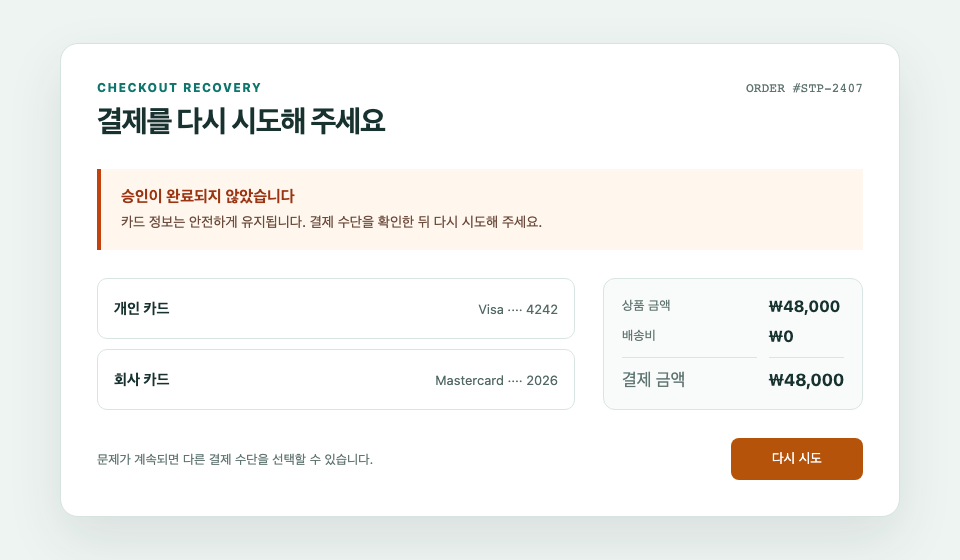
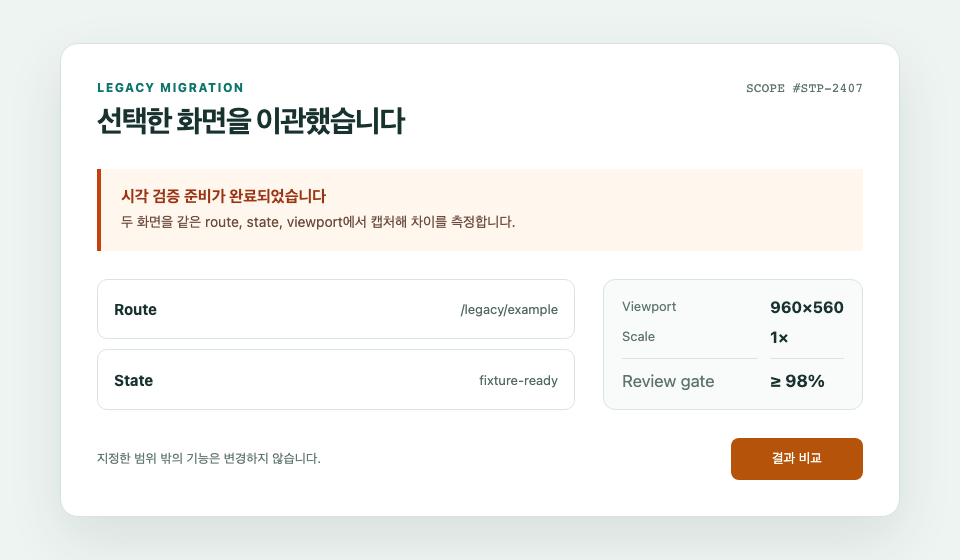
fix: keep legacy migration scope path-driven

diff --git a/scripts/build-guide-visual-assets.ts b/scripts/build-guide-visual-assets.ts
@@ -13,7 +13,7 @@ function sha256(content: Buffer) {
   return `sha256:${createHash("sha256").update(content).digest("hex")}`;
 }
 
-function checkoutFixture(variant: "baseline" | "actual") {
+function migrationFixture(variant: "baseline" | "actual") {
   const actionColor = variant === "baseline" ? "#0f766e" : "#b45309";
 
   return `<!doctype html>
@@ -62,20 +62,20 @@ function checkoutFixture(variant: "baseline" | "actual") {
   </style>
 </head>
 <body>
-  <main aria-label="결제 재시도 상태">
+  <main aria-label="레거시 화면 비교 상태">
     <header>
-      <div><p class="eyebrow">Checkout recovery</p><h1>결제를 다시 시도해 주세요</h1></div>
-      <span class="order">ORDER #STP-2407</span>
+      <div><p class="eyebrow">Legacy migration</p><h1>선택한 화면을 이관했습니다</h1></div>
+      <span class="order">SCOPE #STP-2407</span>
     </header>
-    <section class="notice"><strong>승인이 완료되지 않았습니다</strong><p>카드 정보는 안전하게 유지됩니다. 결제 수단을 확인한 뒤 다시 시도해 주세요.</p></section>
+    <section class="notice"><strong>시각 검증 준비가 완료되었습니다</strong><p>두 화면을 같은 route, state, viewport에서 캡처해 차이를 측정합니다.</p></section>
     <div class="content">
-      <section class="methods" aria-label="결제 수단">
-        <div class="method"><strong>개인 카드</strong><span>Visa ···· 4242</span></div>
-        <div class="method"><strong>회사 카드</strong><span>Mastercard ···· 2026</span></div>
+      <section class="methods" aria-label="비교 조건">
+        <div class="method"><strong>Route</strong><span>/legacy/example</span></div>
+        <div class="method"><strong>State</strong><span>fixture-ready</span></div>
       </section>
-      <aside><dl><dt>상품 금액</dt><dd>₩48,000</dd><dt>배송비</dt><dd>₩0</dd><dt class="total">결제 금액</dt><dd class="total">₩48,000</dd></dl></aside>
+      <aside><dl><dt>Viewport</dt><dd>960×560</dd><dt>Scale</dt><dd>1×</dd><dt class="total">Review gate</dt><dd class="total">≥ 98%</dd></dl></aside>
     </div>
-    <footer><p>문제가 계속되면 다른 결제 수단을 선택할 수 있습니다.</p><button type="button">다시 시도</button></footer>
+    <footer><p>지정한 범위 밖의 기능은 변경하지 않습니다.</p><button type="button">결과 비교</button></footer>
   </main>
 </body>
 </html>`;
@@ -85,9 +85,9 @@ async function captureFixtures() {
   const browser = await chromium.launch({ headless: true });
   try {
     const page = await browser.newPage({ viewport, deviceScaleFactor: 1 });
-    await page.setContent(checkoutFixture("baseline"), { waitUntil: "load" });
+    await page.setContent(migrationFixture("baseline"), { waitUntil: "load" });
     const baseline = await page.screenshot({ type: "png", animations: "disabled" });
-    await page.setContent(checkoutFixture("actual"), { waitUntil: "load" });
+    await page.setContent(migrationFixture("actual"), { waitUntil: "load" });
     const actual = await page.screenshot({ type: "png", animations: "disabled" });
     return { baseline, actual };
   } finally {
@@ -115,11 +115,11 @@ async function main() {
     status: comparison.status,
     attempt: 1,
     target: {
-      route: "/checkout/retry",
-      state: "payment-declined",
+      route: "/legacy/example",
+      state: "fixture-ready",
       viewport,
       deviceScaleFactor: 1,
-      fixture: "guide-checkout-retry-v1",
+      fixture: "guide-legacy-migration-v1",
     },
     metrics: comparison.metrics,
     maskReasons: comparison.maskReasons,

diff --git a/packages/codex-sdk/src/spec-to-pr-runner.ts b/packages/codex-sdk/src/spec-to-pr-runner.ts
@@ -915,7 +915,7 @@ function modeInstructions(mode: NonNullable<SpecToPrCodexRunInput["deliveryMode"
     return "Brief mode is full delivery: require the supplied brief, Figma source, and local OpenAPI path or HTTPS openApiUrls source before workflow_start; preserve acceptance criteria; implement API and UI in one context; produce sourceProvenance, visualTargets, API gap, apiCoverage, compare-visuals, accessibility, Web Vitals/performance, and pr-report-v2.1 evidence; do not invent missing requirements.";
   }
   if (mode === "legacy") {
-    return "Legacy mode is cross-project migration: require a separate legacyProjectRoot, treat it as read-only, inspect workflow_status.legacyInventory, map every in-scope stable feature key through legacyCoverage, derive API candidates from the explicitly listed bounded source adapters, run both projects, use the running legacy screen as the mandatory visual baseline, compare the target at the same route/state/viewport through compare-visuals, and report migration/API/performance gaps in pr-report-v2.1. When source discovery leaves an ambiguous method or path, optionally supply a project-local legacyNetworkEvidencePath containing bounded HAR JSON or a request array captured from the scoped legacy flow. API candidates require complete api-ready/apiCoverage evidence; zero candidates require a complete API section bound to the adapter list and inventory digest. Ambiguous methods/paths resolve only from a unique scoped OpenAPI/runtime match and otherwise remain a durable intake blocker. Optional OpenAPI enriches candidates but never controls API-section applicability.";
+    return "Legacy mode is cross-project migration: require a separate legacyProjectRoot, treat it as read-only, inspect workflow_status.legacyInventory, map every in-scope stable feature key through legacyCoverage, derive API candidates from the explicitly listed bounded source adapters, run both projects, use the running legacy screen as the mandatory visual baseline, compare the target at the same route/state/viewport through compare-visuals, and report migration/API/performance gaps in pr-report-v2.1. Treat legacyProjectRoot and workflow_status.legacyInventory as the complete source boundary. Resolve every request term only against that inventory; if no feature key matches, report an in-bound scope mismatch. A sibling, parent, or keyword-similar module requires an explicit replacement legacyProjectRoot and is never inferred from repository-wide search. When source discovery leaves an ambiguous method or path, optionally supply a project-local legacyNetworkEvidencePath containing bounded HAR JSON or a request array captured from the scoped legacy flow. API candidates require complete api-ready/apiCoverage evidence; zero candidates require a complete API section bound to the adapter list and inventory digest. Ambiguous methods/paths resolve only from a unique scoped OpenAPI/runtime match and otherwise remain a durable intake blocker. Optional OpenAPI enriches candidates but never controls API-section applicability.";
   }
   if (mode === "feature") {
     return [

diff --git a/packages/codex-sdk/dist/spec-to-pr-runner.js b/packages/codex-sdk/dist/spec-to-pr-runner.js
@@ -715,7 +715,7 @@ function modeInstructions(mode) {
         return "Brief mode is full delivery: require the supplied brief, Figma source, and local OpenAPI path or HTTPS openApiUrls source before workflow_start; preserve acceptance criteria; implement API and UI in one context; produce sourceProvenance, visualTargets, API gap, apiCoverage, compare-visuals, accessibility, Web Vitals/performance, and pr-report-v2.1 evidence; do not invent missing requirements.";
     }
     if (mode === "legacy") {
-        return "Legacy mode is cross-project migration: require a separate legacyProjectRoot, treat it as read-only, inspect workflow_status.legacyInventory, map every in-scope stable feature key through legacyCoverage, derive API candidates from the explicitly listed bounded source adapters, run both projects, use the running legacy screen as the mandatory visual baseline, compare the target at the same route/state/viewport through compare-visuals, and report migration/API/performance gaps in pr-report-v2.1. When source discovery leaves an ambiguous method or path, optionally supply a project-local legacyNetworkEvidencePath containing bounded HAR JSON or a request array captured from the scoped legacy flow. API candidates require complete api-ready/apiCoverage evidence; zero candidates require a complete API section bound to the adapter list and inventory digest. Ambiguous methods/paths resolve only from a unique scoped OpenAPI/runtime match and otherwise remain a durable intake blocker. Optional OpenAPI enriches candidates but never controls API-section applicability.";
+        return "Legacy mode is cross-project migration: require a separate legacyProjectRoot, treat it as read-only, inspect workflow_status.legacyInventory, map every in-scope stable feature key through legacyCoverage, derive API candidates from the explicitly listed bounded source adapters, run both projects, use the running legacy screen as the mandatory visual baseline, compare the target at the same route/state/viewport through compare-visuals, and report migration/API/performance gaps in pr-report-v2.1. Treat legacyProjectRoot and workflow_status.legacyInventory as the complete source boundary. Resolve every request term only against that inventory; if no feature key matches, report an in-bound scope mismatch. A sibling, parent, or keyword-similar module requires an explicit replacement legacyProjectRoot and is never inferred from repository-wide search. When source discovery leaves an ambiguous method or path, optionally supply a project-local legacyNetworkEvidencePath containing bounded HAR JSON or a request array captured from the scoped legacy flow. API candidates require complete api-ready/apiCoverage evidence; zero candidates require a complete API section bound to the adapter list and inventory digest. Ambiguous methods/paths resolve only from a unique scoped OpenAPI/runtime match and otherwise remain a durable intake blocker. Optional OpenAPI enriches candidates but never controls API-section applicability.";
     }
     if (mode === "feature") {
         return [

diff --git a/tests/plugin/documentation-v2.test.ts b/tests/plugin/documentation-v2.test.ts
@@ -496,6 +496,12 @@ describe("v2 documentation", () => {
       expect(guides.legacy).not.toMatch(
         /API gaps? when OpenAPI is supplied|OpenAPI 제공 시 API gap|OpenAPI를 제공한 경우에만|required only when OpenAPI was supplied/,
       );
+      expect(guides.legacy, `${locale}:legacy examples must remain scope-neutral`).not.toMatch(
+        /결제\s*재시도|payment[-_\s]?retry|legacy_checkout_retry/i,
+      );
+      expect(guides.legacy).toContain(
+        locale === "ko" ? "지정한 레거시 범위" : "the selected legacy scope",
+      );
       expect(guides.figma).toContain("mock");
       expect(guides.figma).toContain("sha256");
       expect(guides.figma).toContain("98%");
@@ -510,6 +516,23 @@ describe("v2 documentation", () => {
       for (const caseName of ["brief", "legacy", "figma"]) {
         expect(guides[caseName]).not.toContain("featureVideo: required");
       }
+    }
+  });
+
+  it("keeps reusable legacy examples domain-neutral", () => {
+    const reusableLegacyExamples = [
+      "website/docs/usage/legacy.mdx",
+      "website/i18n/en/docusaurus-plugin-content-docs/current/usage/legacy.mdx",
+      "website/src/components/guide/VisualProof.tsx",
+      "scripts/build-guide-visual-assets.ts",
+      "website/static/img/guide/visual-proof/metrics.json",
+    ];
+
+    for (const file of reusableLegacyExamples) {
+      const contents = readFileSync(path.join(root, file), "utf8");
+      expect(contents, `${file}: reusable examples must not imply a business feature`).not.toMatch(
+        /결제\s*재시도|payment[-_\s/]?retry|checkout[-_\s/]?retry|payment-declined|legacy_checkout_retry/i,
+      );
     }
   });
 

diff --git a/tests/plugin/layout.test.ts b/tests/plugin/layout.test.ts
@@ -294,6 +294,10 @@ describe("plugin layout", () => {
     expect(main).toContain("`auto | ui | non-ui | docs`");
     expect(main).toContain("The four delivery cases are UI contracts");
     expect(main).toContain("Figma defaults to `publication: draft`");
+    expect(main).toContain(
+      "Treat `legacyProjectRoot` and `workflow_status.legacyInventory` as the complete source boundary",
+    );
+    expect(main).toContain("report an in-bound scope mismatch");
     for (const contract of [
       "sourceProvenance",
       "visualTargets",
@@ -336,6 +340,10 @@ describe("plugin layout", () => {
     expect(intake).toContain("automatically discovered project guidance");
     expect(intake).toContain("applicable installed skills");
     expect(intake).toContain("SpecToPR defaults");
+    expect(intake).toContain(
+      "Treat `legacyProjectRoot` and `workflow_status.legacyInventory` as the complete source boundary",
+    );
+    expect(intake).toContain("report an in-bound scope mismatch");
     expect(intake).toContain("Exclude project guidance from scope classification");
     expect(intake).toContain("Missing optional skills do not block");
     expect(intake).toContain("`auto | ui | non-ui | docs`");

diff --git a/website/src/components/guide/VisualProof.tsx b/website/src/components/guide/VisualProof.tsx
@@ -7,7 +7,7 @@ type Locale = "ko" | "en";
 
 const proof = {
   ko: [
-    { file: "baseline.png", title: "1. Baseline", alt: "결제 재시도 화면의 비교 기준 PNG" },
+    { file: "baseline.png", title: "1. Baseline", alt: "선택한 레거시 화면의 비교 기준 PNG" },
     { file: "actual.png", title: "2. Actual", alt: "대상 구현에서 같은 조건으로 캡처한 PNG" },
     { file: "diff.png", title: "3. Diff", alt: "RGBA 거리가 있는 픽셀만 표시한 diff PNG" },
     {
@@ -20,7 +20,7 @@ const proof = {
     {
       file: "baseline.png",
       title: "1. Baseline",
-      alt: "Baseline PNG for the checkout retry state",
+      alt: "Baseline PNG for the selected legacy screen",
     },
     {
       file: "actual.png",

diff --git a/tests/unit/codex-sdk-workflow-policy.test.ts b/tests/unit/codex-sdk-workflow-policy.test.ts
@@ -302,6 +302,10 @@ describe("Codex SDK workflow policy", () => {
     expect(legacy).toContain("running legacy screen");
     expect(legacy).toContain("legacyInventory");
     expect(legacy).toContain("legacyCoverage");
+    expect(legacy).toContain(
+      "Treat legacyProjectRoot and workflow_status.legacyInventory as the complete source boundary",
+    );
+    expect(legacy).toContain("report an in-bound scope mismatch");
     expect(legacy).toContain('- Legacy project: "/tmp/legacy-project"');
   });
 

diff --git a/skills/intake-contracts/SKILL.md b/skills/intake-contracts/SKILL.md
@@ -11,7 +11,7 @@ Read `deliveryProfile`. Accept only `auto | ui | non-ui | docs` as `scope`. Requ
 
 - Read any `briefPath`, `docsPaths`, local `openApiPaths`, and fetched HTTPS `openApiUrls`; preserve acceptance criteria, API operations and schemas, contradictions, raw/resolved locators, capture timestamps, and digests. Treat `deliveryProfile.sourceProvenance` and the complete runtime-generated `openApiOperations` inventory as immutable pinned input evidence.
 - Read explicit `guidancePaths` and `discoveredGuidancePaths` as durable project instructions. Block on a missing explicit path; ignore missing automatic candidates. Exclude project guidance from scope classification.
-- `legacy`: use the read-only, separate `legacyProjectRoot` and the bounded `workflow_status.legacyInventory`; do not rescan dependencies or build output. If `legacyNetworkEvidencePath` is present, treat its project-local bounded HAR/request JSON, source-provenance digest, and `runtime-network-har` adapter as pinned evidence. Never infer a method missing from both source and runtime/OpenAPI evidence. A blocked intake has no valid contract action; do not attempt a downstream submission. Run both projects and submit `legacyBaseline` with a bounded scope, running legacy screenshots, evidence paths, and passed checks. Declare each running legacy screenshot as a `visualTargets` item with `baselineKind: legacy-screenshot`, route, state, fixture, viewport, scale, and justified masks. In contracts, map every in-scope stable inventory key through `legacyCoverage` as `planned` or intentionally out of scope; never claim migrated files or executable evidence before implementation.
+- `legacy`: use the read-only, separate `legacyProjectRoot` and the bounded `workflow_status.legacyInventory`; do not rescan dependencies or build output. Treat `legacyProjectRoot` and `workflow_status.legacyInventory` as the complete source boundary. Resolve each request term only against that inventory; when no feature key matches, report an in-bound scope mismatch. A sibling, parent, or keyword-similar module requires an explicit replacement `legacyProjectRoot` and is never inferred from repository-wide search. If `legacyNetworkEvidencePath` is present, treat its project-local bounded HAR/request JSON, source-provenance digest, and `runtime-network-har` adapter as pinned evidence. Never infer a method missing from both source and runtime/OpenAPI evidence. A blocked intake has no valid contract action; do not attempt a downstream submission. Run both projects and submit `legacyBaseline` with a bounded scope, running legacy screenshots, evidence paths, and passed checks. Declare each running legacy screenshot as a `visualTargets` item with `baselineKind: legacy-screenshot`, route, state, fixture, viewport, scale, and justified masks. In contracts, map every in-scope stable inventory key through `legacyCoverage` as `planned` or intentionally out of scope; never claim migrated files or executable evidence before implementation.
 - Legacy OpenAPI is optional enrichment, not an applicability switch. Derive API candidates from the bounded inventory. Preserve the zero-candidate inventory digest so the final API section can be `complete` with no operations; when candidates exist, require exact operation-aware `api-ready` and `apiCoverage` evidence.
 - For any supplied `figmaUrl`, use the host's connected Figma capability to fetch real nodes, screenshots, variables, assets, and component context. Before contracts, submit exactly one `kind: figma-bundle` with `provider: host-connected-figma`, ISO `capturedAt`, `fileUrl` exactly matching the delivery profile, nonempty `nodeIds`, a declared JSON `manifestPath`, and project-local `artifactPaths` containing that manifest plus one or more actual PNG files. The strict manifest repeats `provider`, `capturedAt`, `fileUrl`, and `nodeIds`, and its `visualPaths` exactly list the PNG paths. Add one `visualTargets` entry per required route/state using the corresponding PNG as `baselineKind: figma`. Do not use URL-only claims, repeat the bundle, poll, or add runtime Figma micro-tools.
 - Treat `skillHints` as optional names. Ask the host to use a hint only when that skill is available and applicable. Missing optional skills do not block the Run.

diff --git a/skills/spec-to-pr/SKILL.md b/skills/spec-to-pr/SKILL.md
@@ -10,7 +10,7 @@ Use the v2 facade as the sole workflow authority:
 1. Call `workflow_info` and require contract version `2.0.0`.
 2. Choose one delivery profile. Delivery mode controls delivery and evidence; sources compose independently. Call `workflow_start` with `projectRoot`, `requestText`, `scope`, `mode`, `changeKind`, `publication`, and supplied `legacyProjectRoot`, `legacyNetworkEvidencePath`, `briefPath`, `figmaUrl`, `docsPaths`, `openApiPaths`, `openApiUrls`, `guidancePaths`, or `skillHints`. Set `scope` to exactly one of `auto | ui | non-ui | docs`; never send a natural-language label. The four delivery cases are UI contracts:
    - `brief`: require `briefPath`, `figmaUrl`, and at least one local `openApiPaths` or HTTPS `openApiUrls` source. Default `changeKind: feature` and `publication: draft`.
-   - `legacy`: require a separate `legacyProjectRoot`; treat it as read-only and migrate into `projectRoot`. Inspect the explicit bounded API adapter list. When source evidence is ambiguous, optionally provide a project-local `legacyNetworkEvidencePath` containing at most 1 MB and 1,000 requests as standard HAR, `{requests:[{method,url}]}`, or `[{method,url}]`. Resolve an ambiguous method/path only from a unique scoped runtime/OpenAPI match; otherwise preserve the durable intake blocker, which exposes no downstream action and accepts no downstream submission. Default `changeKind: migration` and `publication: draft`.
+   - `legacy`: require a separate `legacyProjectRoot`; treat it as read-only and migrate into `projectRoot`. Treat `legacyProjectRoot` and `workflow_status.legacyInventory` as the complete source boundary. Resolve each request term only against that inventory; when no feature key matches, report an in-bound scope mismatch. A sibling, parent, or keyword-similar module requires an explicit replacement `legacyProjectRoot` and is never inferred from repository-wide search. Inspect the explicit bounded API adapter list. When source evidence is ambiguous, optionally provide a project-local `legacyNetworkEvidencePath` containing at most 1 MB and 1,000 requests as standard HAR, `{requests:[{method,url}]}`, or `[{method,url}]`. Resolve an ambiguous method/path only from a unique scoped runtime/OpenAPI match; otherwise preserve the durable intake blocker, which exposes no downstream action and accepts no downstream submission. Default `changeKind: migration` and `publication: draft`.
    - `feature`: require the same brief/Figma/OpenAPI inputs as `brief`, then add only changed-feature E2E and exactly one video. Set `changeKind: feature` and `publication: draft`.
    - `figma`: require `figmaUrl`, use deterministic mock data, set `changeKind: design`, and capture real Figma evidence before contracts. Figma defaults to `publication: draft`.
    - `auto`: preserve the lightweight v2 behavior when no mode was selected.
